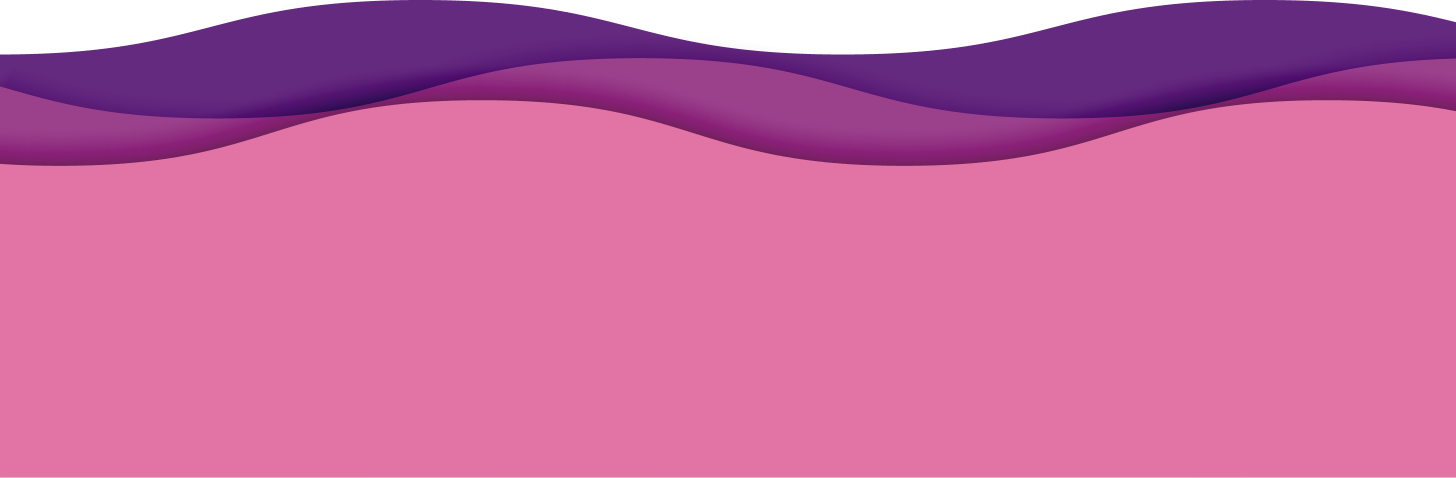
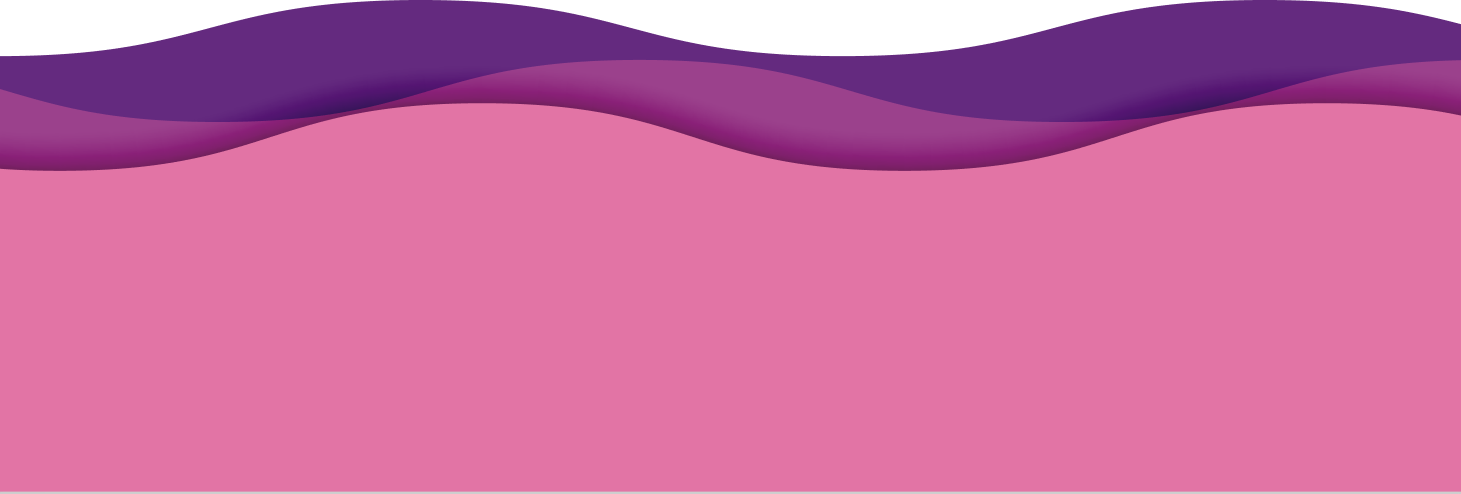
fix: footer styles

diff --git a/client/src/Components/Footer/FooterStyles.js b/client/src/Components/Footer/FooterStyles.js
@@ -1,16 +1,19 @@
 import { makeStyles } from '@material-ui/core';
-import footer_bg from '../../Assets/Backgrounds/footer_bg.jpg'
+import footer_bg from '../../Assets/Backgrounds/footer_bg.png'
 
 export const useStyles = makeStyles({
-  root: {
+  root:{
     width: '100%',
     height: '350px',
-    background: `url(${footer_bg}) no-repeat`,
-    backgroundSize: 'cover',
+    background: '#642A7F',
     '@media (max-width:599px)': //mobile screens
     {
       height: '150px',
     }
+  },
+  footer: {
+    background: `url(${footer_bg}) no-repeat`,
+    backgroundSize: 'cover',
   },
   subtext: {//web view
     color: '#081261',

diff --git a/client/src/Screens/Event.js b/client/src/Screens/Event.js
@@ -12,7 +12,7 @@ import Container from "@material-ui/core/Container";
 const useStyles= makeStyles({
     root:{        background: '#654ea3',  /* fallback for old browsers */
     background: '-webkit-linear-gradient(to bottom, #eaafc8, #654ea3)',  /* Chrome 10-25, Safari 5.1-6 */
-    background: 'linear-gradient(to bottom, #eaafc8, #654ea3)',/* W3C, IE 10+/ Edge, Firefox 16+, Chrome 26+, Opera 12+, Safari 7+ */
+    background: 'linear-gradient(to bottom, #eaafc8, #642A7F)',/* W3C, IE 10+/ Edge, Firefox 16+, Chrome 26+, Opera 12+, Safari 7+ */
         height: '100vh',
         width: '100%',
     },

diff --git a/client/src/Components/Footer/index.js b/client/src/Components/Footer/index.js
@@ -10,8 +10,9 @@ const Footer = () => {
   const classes = useStyles();
 
     return (
-        <footer> 
-        <Grid container className={classes.root}>
+        <footer>
+        <Grid container className={classes.root}>   
+        <Grid container className={classes.footer}>
         <Grid item xs={4} className={classes.findus}>
           <Box className={classes.header}>FOLLOW US</Box>
           <Box className={classes.socialLinksContainer}>
@@ -59,6 +60,7 @@ const Footer = () => {
         </Box>    
         </Grid>
       </Grid>
+      </Grid> 
         </footer>
     )
 }

diff --git a/client/src/Screens/FAQ.js b/client/src/Screens/FAQ.js
@@ -8,7 +8,7 @@ const useStyles= makeStyles({
     root:{
         background: '#654ea3',  /* fallback for old browsers */
         background: '-webkit-linear-gradient(to bottom, #eaafc8, #654ea3)',  /* Chrome 10-25, Safari 5.1-6 */
-        background: 'linear-gradient(to bottom, #eaafc8, #654ea3)',/* W3C, IE 10+/ Edge, Firefox 16+, Chrome 26+, Opera 12+, Safari 7+ */
+        background: 'linear-gradient(to bottom, #eaafc8, #642A7F)',/* W3C, IE 10+/ Edge, Firefox 16+, Chrome 26+, Opera 12+, Safari 7+ */
         
         height: '100vh',
         width: '100%',

diff --git a/client/src/Screens/Home/Home.js b/client/src/Screens/Home/Home.js
@@ -17,7 +17,7 @@ const useStyles= makeStyles({
     minHeight: '60vh',
     background: ' #ad5389',/* fallback for old browsers */
     background: '-webkit-linear-gradient(to top, #3c1053, #ad5389)', /* Chrome 10-25, Safari 5.1-6 */
-    background: 'linear-gradient(to top, #3c1053, #ad5389)', /* W3C, IE 10+/ Edge, Firefox 16+, Chrome 26+, Opera 12+, Safari 7+ */
+    background: 'linear-gradient(to top, #642A7F, #9B418C)', /* W3C, IE 10+/ Edge, Firefox 16+, Chrome 26+, Opera 12+, Safari 7+ */
     '@media (max-width:599px)': {
       height: '80vh',
     }

diff --git a/client/src/Screens/Meet_the_team/Team.js b/client/src/Screens/Meet_the_team/Team.js
@@ -10,7 +10,7 @@ const useStyles= makeStyles({
     root:{     
    background: '#654ea3',  /* fallback for old browsers */
     background: '-webkit-linear-gradient(to bottom, #eaafc8, #654ea3)',  /* Chrome 10-25, Safari 5.1-6 */
-    background: 'linear-gradient(to bottom, #eaafc8, #654ea3)',/* W3C, IE 10+/ Edge, Firefox 16+, Chrome 26+, Opera 12+, Safari 7+ */
+    background: 'linear-gradient(to bottom, #eaafc8, #642A7F)',/* W3C, IE 10+/ Edge, Firefox 16+, Chrome 26+, Opera 12+, Safari 7+ */
     
         height: '100vh',
         width: '100%',
